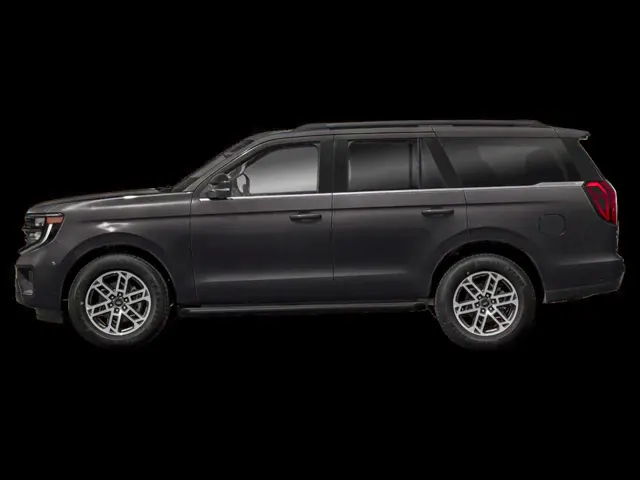
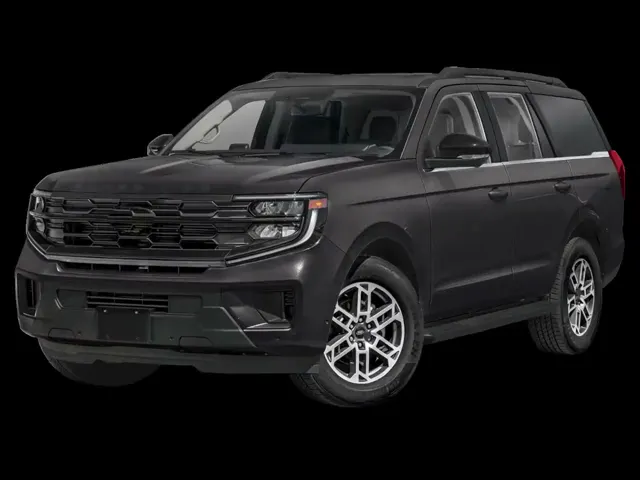
Vehículo: primer frame del video (vista frontal) y texto sin adjetivos no confirmados

diff --git a/index.html b/index.html
@@ -211,7 +211,7 @@
         </div>
       </section>
 
-      <!-- Vehículo. TODO(cliente): reemplazar por fotos reales de su camioneta (hoy: último frame del video). -->
+      <!-- Vehículo. TODO(cliente): reemplazar por fotos reales de su camioneta (hoy: primer frame del video, vista frontal; el hero termina en el perfil). -->
       <section class="vehicle" id="vehicle" aria-labelledby="vehicle-title">
         <div class="vehicle__inner">
           <figure class="vehicle__media">
@@ -223,19 +223,19 @@
               />
               <img
                 class="vehicle__img"
-                src="/media/hero-last.jpg"
+                src="/media/poster.jpg"
                 width="1280"
                 height="960"
                 loading="lazy"
                 decoding="async"
-                alt="Black full-size SUV, side view."
+                alt="Black full-size SUV, front three-quarter view."
                 data-i18n-attr="alt:vehicle.alt"
               />
             </picture>
           </figure>
           <div class="vehicle__copy">
             <h2 class="section-title" id="vehicle-title" data-i18n="vehicle.title">The vehicle.</h2>
-            <p class="section-sub" data-i18n="vehicle.text">A full-size luxury SUV, clean and quiet, with room for you and your luggage.</p>
+            <p class="section-sub" data-i18n="vehicle.text">A full-size luxury SUV with room for you and your luggage.</p>
             <!-- Amenidades desde src/data/amenities.json: solo las confirmed: true. -->
             <!-- amenities:list -->
           </div>

diff --git a/src/styles/sections.css b/src/styles/sections.css
@@ -37,7 +37,7 @@
   margin: 0;
 }
 
-/* La imagen es el último frame del video (4:3 con franjas negras): se recorta a 16:10 sin tocar la camioneta. */
+/* Primer frame del video (4:3 sobre negro; la camioneta ocupa ~14–80 % del alto): recorte 16:10 sin tocarla. */
 .vehicle__img {
   width: 100%;
   height: auto;
